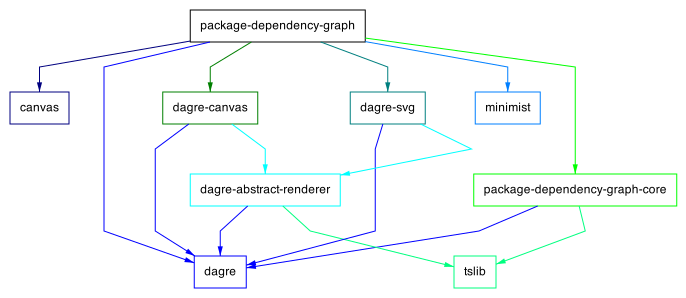
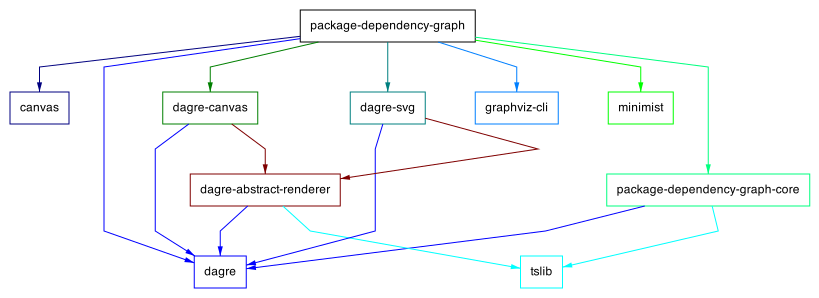
feat: use graphviz-cli to remove external graphviz dependency
#3

diff --git a/packages/cli/src/index.ts b/packages/cli/src/index.ts
@@ -3,6 +3,7 @@ import * as fs from 'fs'
 import * as util from 'util'
 import * as dagre from 'dagre'
 import { createCanvas } from 'canvas'
+import { renderGraphFromSource } from 'graphviz-cli'
 
 import { collectDependencies, toDotFile, checkDependencies, getTopLevelPackages, toDagre } from 'package-dependency-graph-core'
 import { renderDagreToCanvas } from 'dagre-canvas'
@@ -19,8 +20,10 @@ function showToolVersion() {
 function showHelp() {
   console.log(`Version ${packageJson.version}
 Syntax:   package-dependency-graph [options]
-Examples: package-dependency-graph --dot foo.dot
+Examples: package-dependency-graph --graphviz --png foo.png
+          package-dependency-graph --graphviz --svg foo.svg
           package-dependency-graph --png foo.png
+          package-dependency-graph --svg foo.svg
 Options:
  -h, --help                                         Print this message.
  -v, --version                                      Print the version
@@ -31,6 +34,7 @@ Options:
  --exclude-node_modules                             Exclude packages from node_modules
  --check                                            Check unnecessary dependencies(not recommended)
  --debug                                            Show debug info
+ --graphviz                                         Save graphviz styled png or svg file
 `)
 }
 
@@ -50,6 +54,7 @@ async function executeCommandLine() {
     svg?: unknown
     h?: unknown
     help?: unknown
+    graphviz?: unknown
   }
 
   const showVersion = argv.v || argv.version
@@ -87,14 +92,23 @@ async function executeCommandLine() {
     console.info(dot)
   }
   if (argv.png && typeof argv.png === 'string') {
-    const graph = toDagre(dependencies)
-    const canvas = createCanvas(300, 300)
-    renderDagreToCanvas(graph as unknown as dagre.graphlib.Graph, canvas as unknown as HTMLCanvasElement, 12, 10)
-    await writeFileAsync(argv.png, canvas.toBuffer('image/png'))
+    if (argv.graphviz) {
+      await renderGraphFromSource({ input: dot }, { format: 'png', engine: 'dot', name: argv.png })
+    } else {
+      const graph = toDagre(dependencies)
+      const canvas = createCanvas(300, 300)
+      renderDagreToCanvas(graph as unknown as dagre.graphlib.Graph, canvas as unknown as HTMLCanvasElement, 12, 10)
+      await writeFileAsync(argv.png, canvas.toBuffer('image/png'))
+    }
   }
   if (argv.svg && typeof argv.svg === 'string') {
-    const graph = toDagre(dependencies)
-    const svg = renderDagreToSvg(graph as unknown as dagre.graphlib.Graph, 12, 10)
+    let svg: string
+    if (argv.graphviz) {
+      svg = await renderGraphFromSource({ input: dot }, { format: 'svg', engine: 'dot' })
+    } else {
+      const graph = toDagre(dependencies)
+      svg = renderDagreToSvg(graph as unknown as dagre.graphlib.Graph, 12, 10)
+    }
     await writeFileAsync(argv.svg, svg)
   }
 }

diff --git a/clean-scripts.config.ts b/clean-scripts.config.ts
@@ -12,7 +12,8 @@ export default {
       ],
       dependencies: d.dependencies
     }))),
-    'node packages/cli/dist/index.js --dot spec/result.dot --png spec/dagre-result.png --svg spec/dagre-result.svg --debug --supressError > spec/result.txt'
+    'node packages/cli/dist/index.js --dot spec/result.dot --png demo/dagre.png --svg spec/dagre-result.svg --debug --supressError > spec/result.txt',
+    'node packages/cli/dist/index.js --graphviz --png demo/graphviz.png --svg spec/result.svg'
   ],
   lint: {
     ts: `eslint --ext .js,.ts,.tsx ${tsFiles}`,

diff --git a/README.md b/README.md
@@ -18,9 +18,7 @@ A CLI tool to generate a dependency graph of packages in a monorepo by graphviz 
 
 ### graphviz
 
-1. install `graphviz`
-2. run `package-dependency-graph --dot foo.dot`
-3. run `dot -Tpng foo.dot > foo.png`
+`package-dependency-graph --graphviz --png foo.png`
 
 ![graphviz](./demo/graphviz.png)
 
@@ -43,3 +41,4 @@ name | type | description
 `--debug` | boolean? | show debug info
 `-h,--help` | boolean? | Print this message.
 `-v,--version` | boolean? | Print the version
+`--graphviz` | boolean? | save graphviz styled png or svg file
